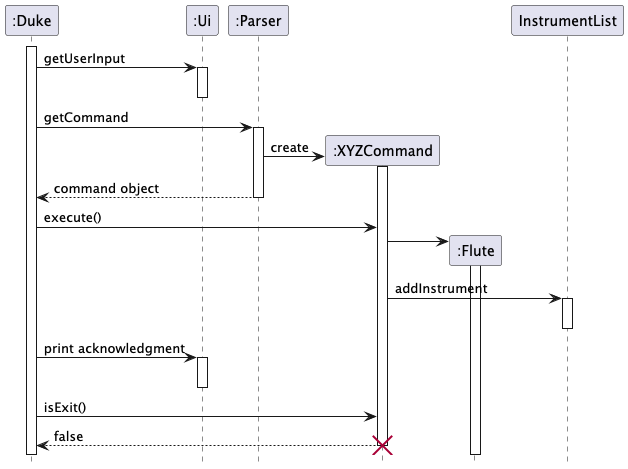
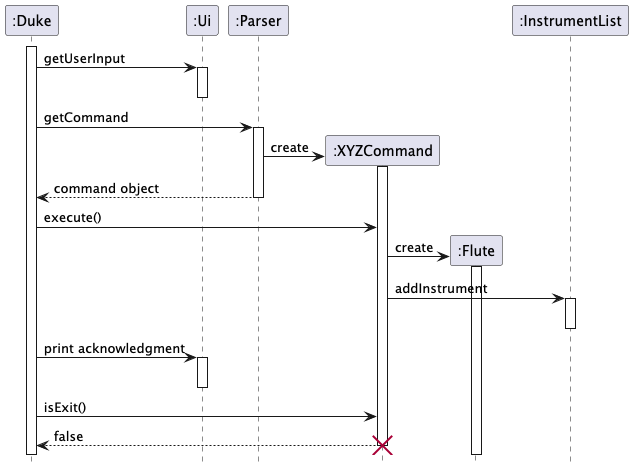
Fix DG UML diagrams and typos

diff --git a/docs/DeveloperGuide.md b/docs/DeveloperGuide.md
@@ -51,7 +51,7 @@ charge of the app launch and shut down.
 * Populates the `Duke_Data` which includes the Instrument Data, Finance Data and User Data.
 * At shut down, it shuts down the other components and invokes cleanup methods where necessary.
 
-The bulk of the app’s work is done by the following four components:
+The bulk of the app’s work is done by the following five components:
 
 * **`Duke`**: The logic manager of the app.
 * **`UI`**: The UI of the App.
